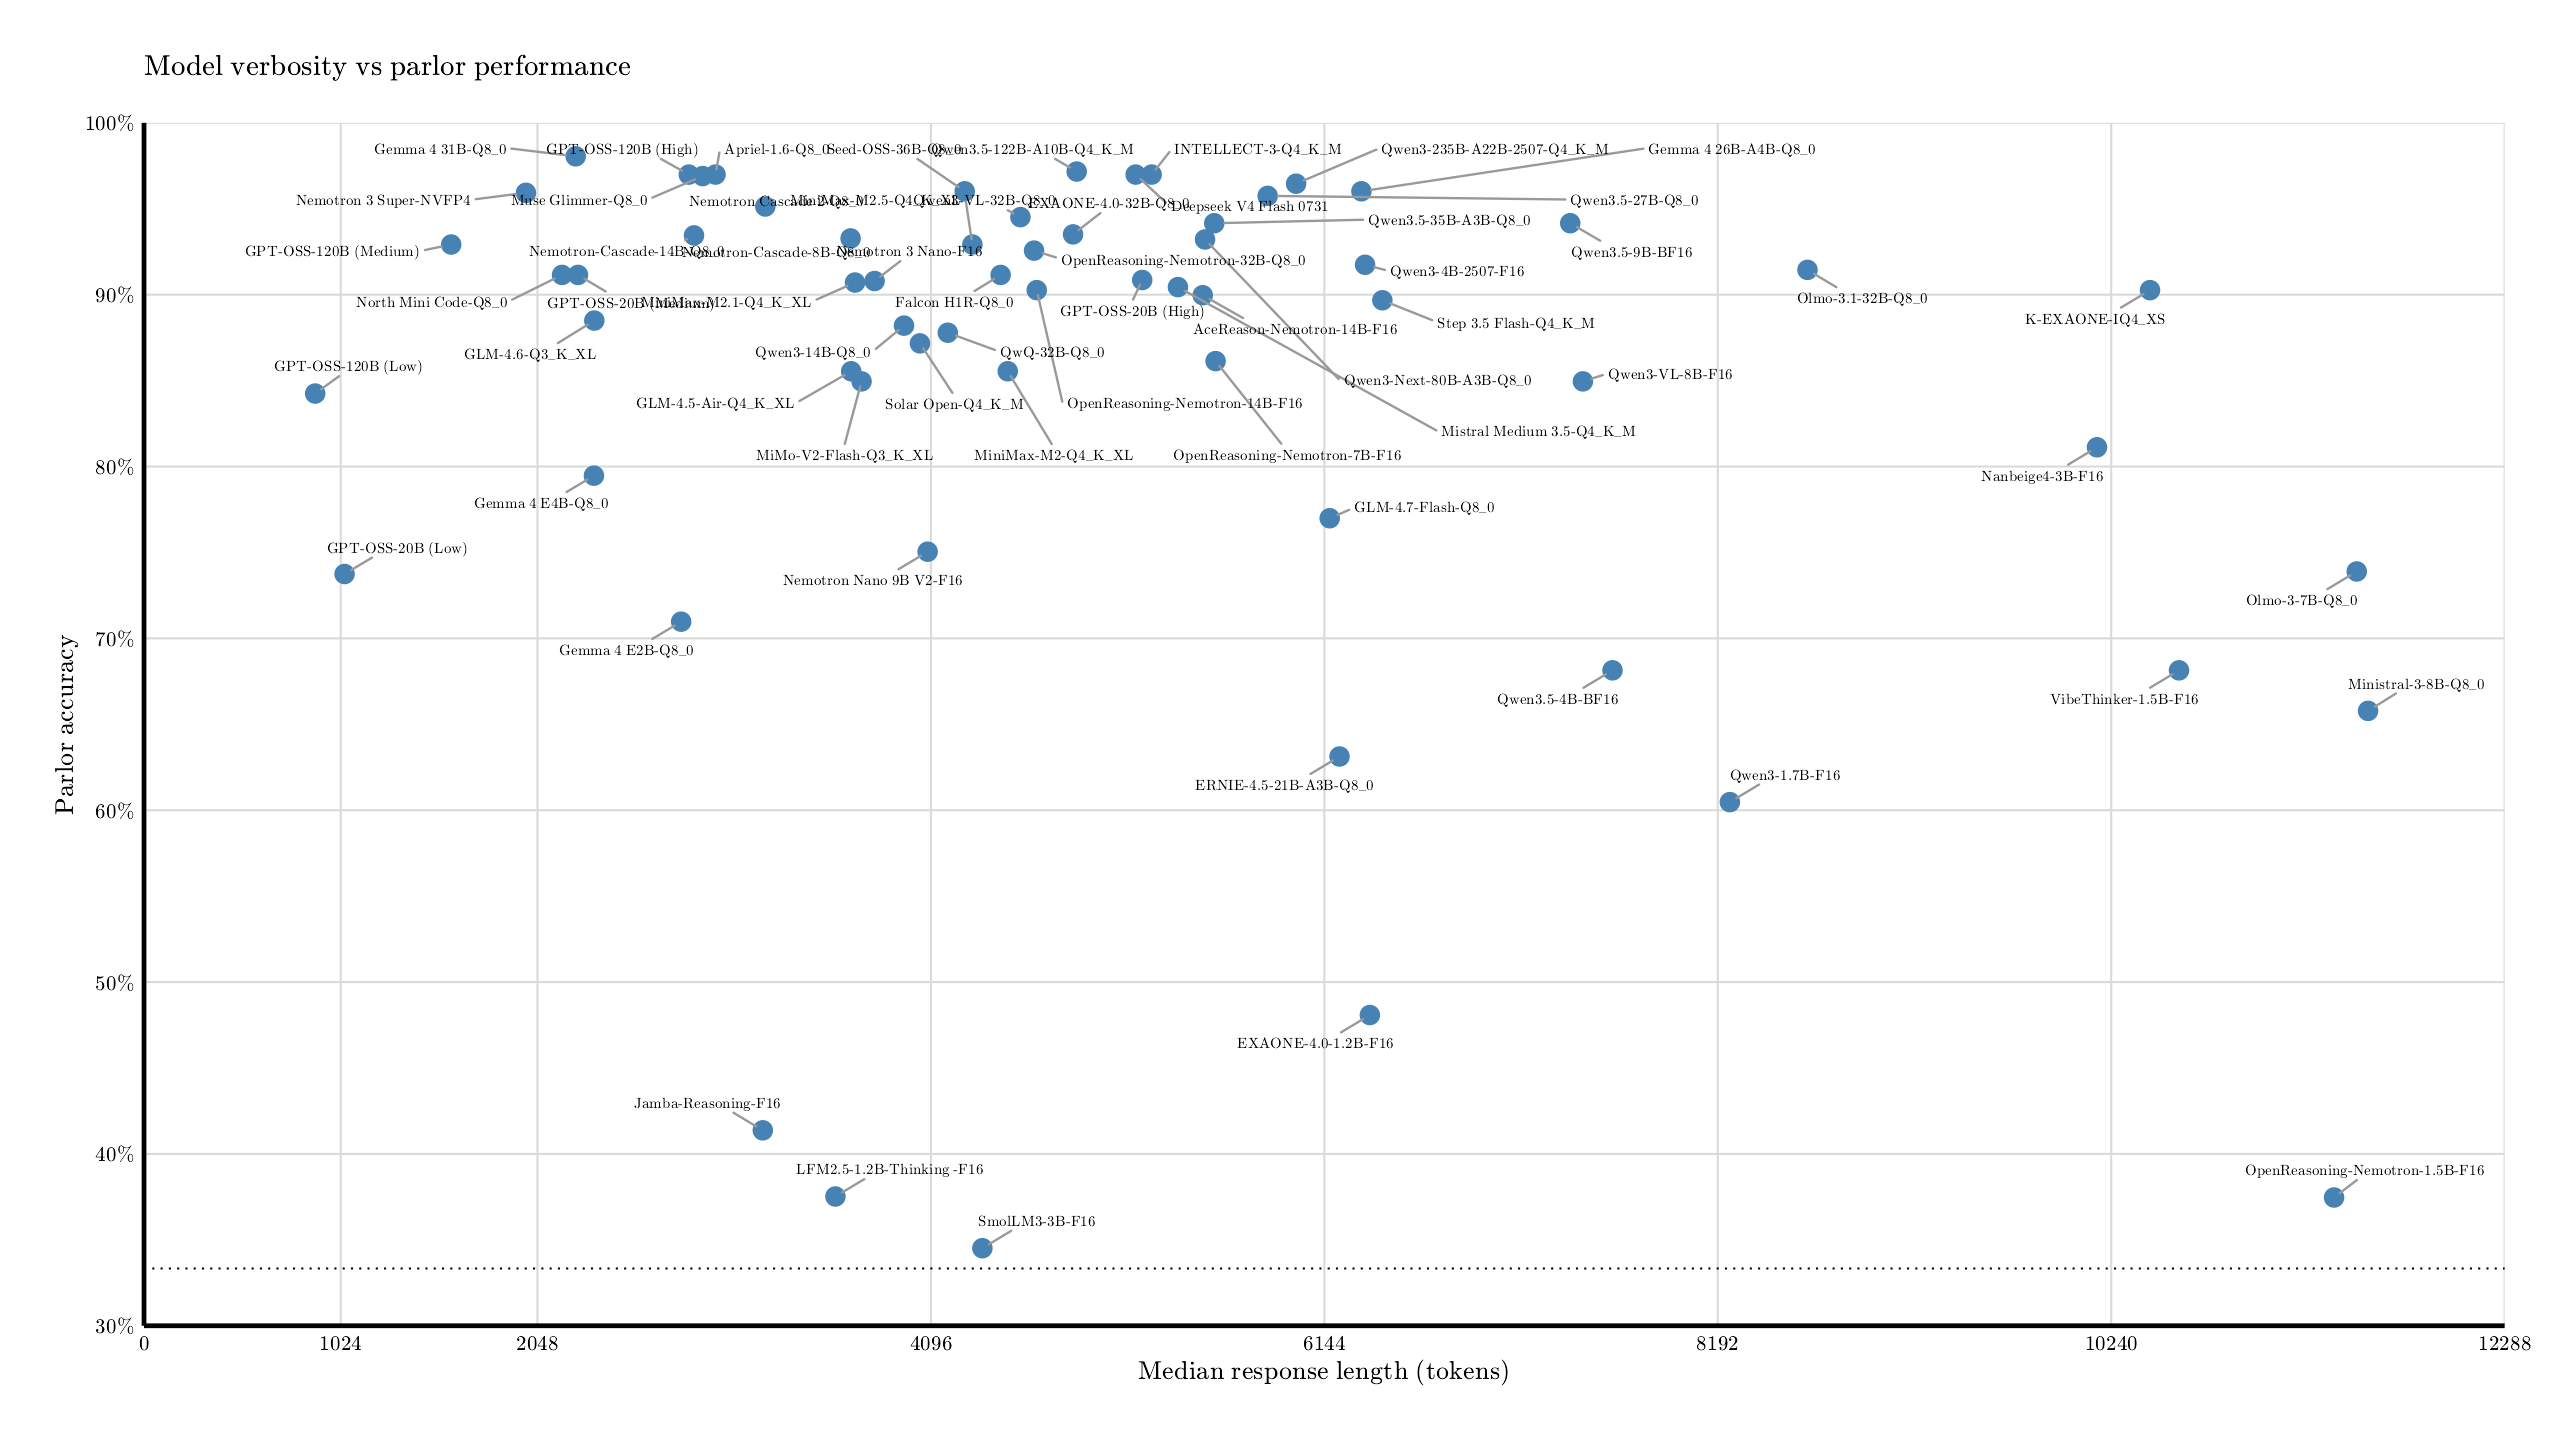
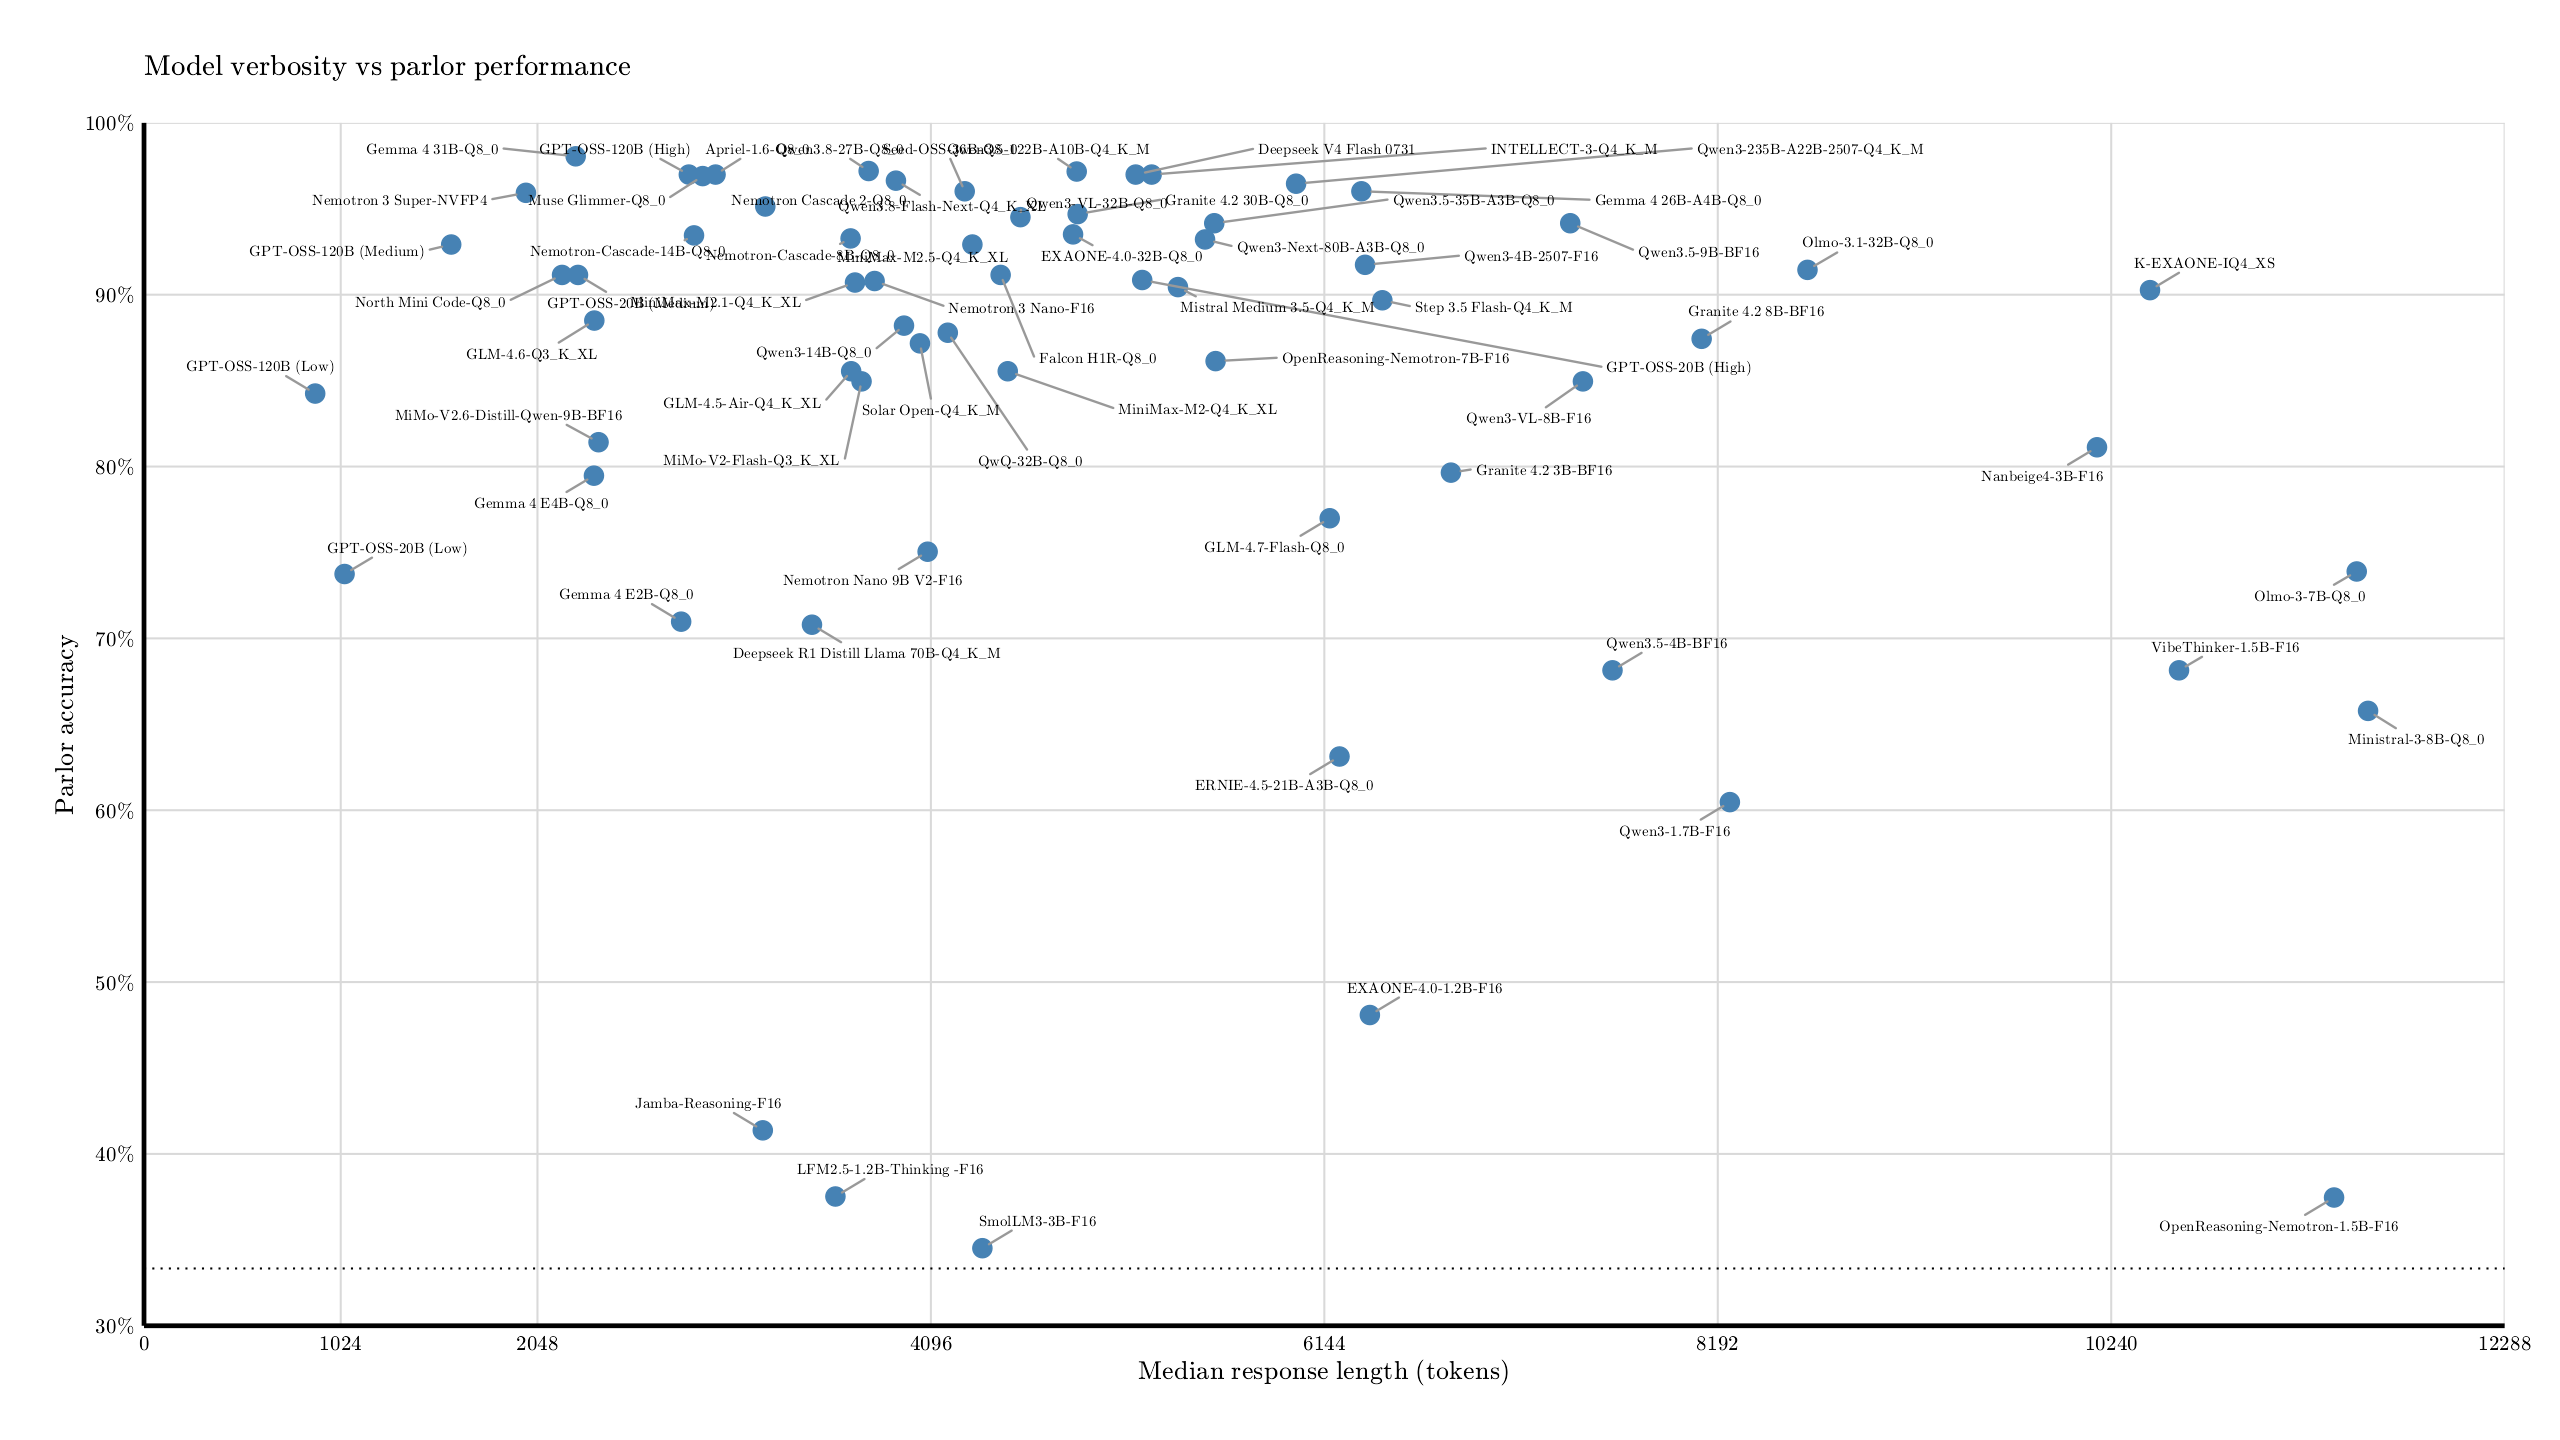
Parlor: Qwen3.8 Flash Next, Granite 3.2, MiMo Qwen distill

diff --git a/pages/parlor-reasoning.html b/pages/parlor-reasoning.html
@@ -337,6 +337,30 @@
       <td>4001/2836 tokens</td>
     </tr>
 	<tr>
+      <td><a href="https://huggingface.co/ibm-granite/granite-4.2-3b">Granite-4.2-3B</a></td>
+	  <td>3B</td>
+	  <td>BF16</td>
+      <td>113*5</td>
+      <td>79.7%</td> <!-- 450/565 -->
+      <td>9731/6803 tokens</td>
+    </tr>
+	<tr>
+      <td><a href="https://huggingface.co/ibm-granite/granite-4.2-8b">Granite-4.2-8B</a></td>
+	  <td>8B</td>
+	  <td>BF16</td>
+      <td>113*5</td>
+      <td>87.4%</td> <!-- 494/565 -->
+      <td>10488/8108 tokens</td>
+    </tr>
+	<tr>
+      <td><a href="https://huggingface.co/ibm-granite/granite-4.2-30b">Granite-4.2-30B</a></td>
+	  <td>30B</td>
+	  <td>Q8_0</td>
+      <td>113*5</td>
+      <td>94.7%</td> <!-- 535/565 -->
+      <td>6420/4860 tokens</td>
+    </tr>
+	<tr>
       <td><a href="https://huggingface.co/NousResearch/Hermes-4-70B">Hermes-4-70B</a></td>
 	  <td>70B</td>
 	  <td>Q4_K_XL</td>
@@ -399,6 +423,14 @@
       <td>113*1</td>
       <td>85.0%</td> <!-- 96/113 -->
       <td>6839/3735 tokens</td>
+    </tr>
+	<tr>
+      <td><a href="https://huggingface.co/XiaomiMiMo/MiMo-V2.6-Distill-Qwen-9B">MiMo-V2.6-Distill-Qwen-9B</a></td>
+	  <td>9B</td>
+	  <td>BF16</td>
+      <td>113*5</td>
+      <td>81.4%</td> <!-- 460/565 -->
+      <td>6140/2366 tokens</td>
     </tr>
 	<tr>
       <td><a href="https://huggingface.co/MiniMaxAI/MiniMax-M2">MiniMax M2</a></td>
@@ -559,6 +591,14 @@
       <td>113*5</td>
 	  <td>97.2%</td> <!-- 549/565 -->
       <td>5397/4855 tokens</td>
+    </tr>
+	<tr>
+      <td><a href="https://huggingface.co/Qwen/Qwen3.8-Flash-Next">Qwen3.8-Flash-Next</a></td>
+	  <td>125B</td>
+	  <td>Q4_K_XL</td>
+      <td>113*5</td>
+	  <td>96.6%</td> <!-- 546/565 -->
+      <td>5697/3914 tokens</td>
     </tr>
 	<tr>
       <td><a href="https://huggingface.co/inclusionAI/Ring-flash-2.0">Ring-Flash-2.0</a></td>
@@ -1513,6 +1553,14 @@ Batch final 3: 43317
       <td>113*6</td>
 	  <td>97.2%</td> <!-- 659/678 -->
       <td>5252/3772 tokens</td>
+    </tr>
+	<tr>
+      <td><a href="https://huggingface.co/Qwen/Qwen3.8-Flash-Next">Qwen3.8-Flash-Next</a></td>
+	  <td>125B</td>
+	  <td>Q4_K_XL</td>
+      <td>113*5</td>
+	  <td>96.6%</td> <!-- 546/565 -->
+      <td>5697/3914 tokens</td>
     </tr>
 	<tr>
       <td><a href="https://huggingface.co/Qwen/QwQ-32B">QwQ-32B</a></td>
